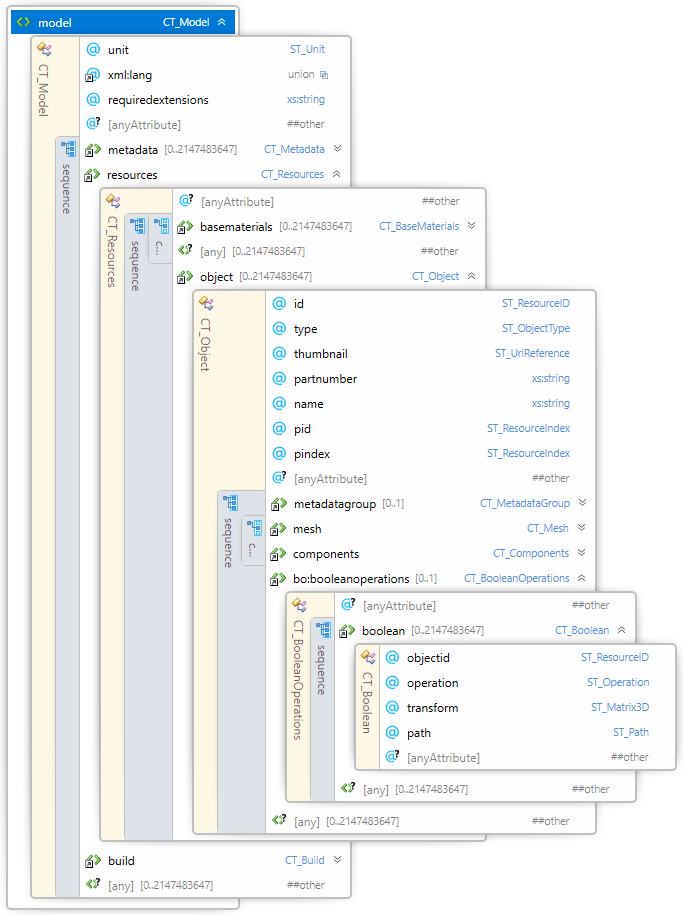
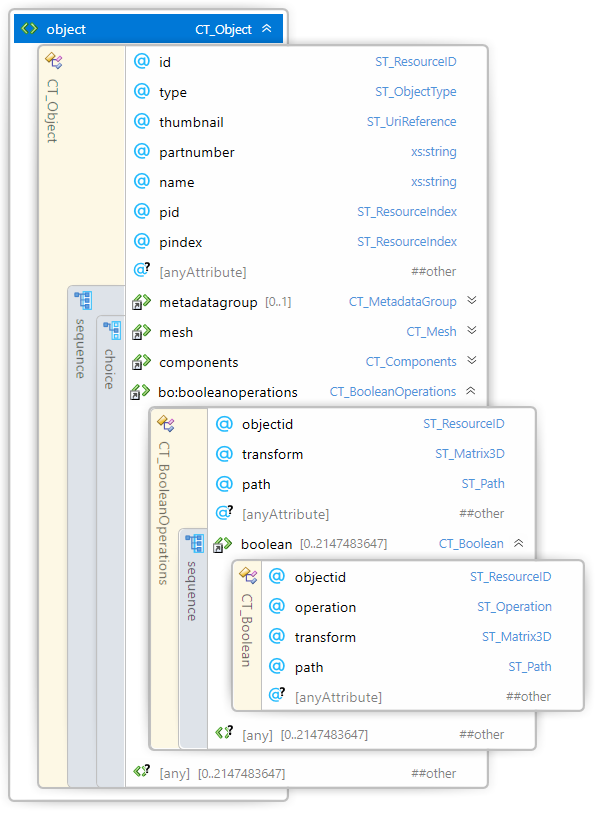
new 0.7.5 draft

diff --git a/3MF Boolean operations.md b/3MF Boolean operations.md
@@ -13,7 +13,7 @@
 
 
 
-| **Version** | 0.7.0 |
+| **Version** | 0.7.5 |
 | --- | --- |
 | **Status** | Draft |
 
@@ -86,7 +86,20 @@ Element \<booleanoperations>
 
 ![Boolean Operations](images/2.booleanoperations.png)
 
+| Name   | Type   | Use   | Default   | Annotation |
+| --- | --- | --- | --- | --- |
+| objectid | **ST\_ResourceID** | required | | It references the object object id to apply the boolean operations |
+| transform | **ST\_Matrix3D** | | | A matrix transform (see [3.3. 3D Matrices](#33-3d-matrices)) applied to the item to be outputted. |
+| path | **ST\_Path** | | | A file path to the object file being referenced. The path is an absolute path from the root of the 3MF container. |
+| @anyAttribute | | | | |
+
 The optional \<booleanoperations> element contains one or more \<boolean> elements to perform subtractive boolean operations to the mesh or components elements in the enclosing object.
+
+**objectid** - Selects the object with the base object to be subtracted.
+
+**transform** - The transform to apply to the selected base object.
+
+**path** - When used in conjunction with [the 3MF Production extension](https://github.com/3MFConsortium/spec_production/blob/master/3MF%20Production%20Extension.md), the "path" attribute references objects in non-root model files. Path is an absolute path to the target model file inside the 3MF container that contains the target object. The use of the path attribute in a \<boolean> element is ONLY valid in the root model file.
 
 The boolean operations are sequentially applied in the order defined by the \<boolean> sequence.
 
@@ -156,8 +169,10 @@ See [the 3MF Core Specification glossary](https://github.com/3MFConsortium/spec_
   <!-- Complex Types -->
   <xs:complexType name="CT_Object">
     <xs:sequence>
-      <xs:element ref="booleanoperations" minOccurs="0" maxOccurs="1"/>
-      <xs:any namespace="##other" processContents="lax" minOccurs="0" maxOccurs="2147483647"/>
+      <xs:choice>
+        <xs:element ref="booleanoperations"/>
+        <xs:any namespace="##other" processContents="lax" minOccurs="0" maxOccurs="2147483647"/>
+      </xs:choice>
     </xs:sequence>
   </xs:complexType>
 
@@ -166,6 +181,9 @@ See [the 3MF Core Specification glossary](https://github.com/3MFConsortium/spec_
       <xs:element ref="boolean" minOccurs="0" maxOccurs="2147483647"/>
       <xs:any namespace="##other" processContents="lax" minOccurs="0" maxOccurs="2147483647"/>
     </xs:sequence>
+    <xs:attribute name="objectid" type="ST_ResourceID" use="required"/>
+    <xs:attribute name="transform" type="ST_Matrix3D"/>
+    <xs:attribute name="path" type="ST_Path"/>
     <xs:anyAttribute namespace="##other" processContents="lax"/>
   </xs:complexType>
 
@@ -231,22 +249,16 @@ See [the 3MF Core Specification glossary](https://github.com/3MFConsortium/spec_
             </mesh>
         </object>
         <object id="6" type="model" name="Intersected">
-            <components>
-                <component objectid="3" transform="0.0741111 0 0 0 0.0741111 0 0 0 0.0741111 2.91124 -0.400453 1.60607" />
-            </components>
-            <booleanoperations>
-                <boolean objectid="4" bo:operation="intersection" transform="0.0741111 0 0 0 0.0741111 0 0 0 0.0741111 2.91124 -0.400453 1.60607"/>
-            </booleanoperations>
+            <bo:booleanoperations objectid="3" transform="0.0741111 0 0 0 0.0741111 0 0 0 0.0741111 2.91124 -0.400453 1.60607">
+                <bo:boolean objectid="4" bo:operation="intersection" transform="0.0741111 0 0 0 0.0741111 0 0 0 0.0741111 2.91124 -0.400453 1.60607"/>
+            </bo:booleanoperations>
         </object>
         <object id="10" type="model" name="Full part">
-            <components>
-                <component objectid="6"/>
-            </components>
-            <booleanoperations>
-                <boolean objectid="5" bo:operation="difference" transform="0.0271726 0 0 0 0 0.0271726 0 -0.0680034 0 4.15442 3.58836 5.23705" />
-                <boolean objectid="5" bo:operation="difference" transform="0.0272014 0 0 0 0.0272012 0 0 0 0.0680035 4.05357 6.33412 3.71548" />
-                <boolean objectid="5" bo:operation="difference" transform="0 0 -0.0272013 0 0.0272013 0 0.0680032 0 0 5.05103 6.32914 3.35287" />
-            </booleanoperations>
+            <bo:booleanoperations objectid="6">
+                <bo:boolean objectid="5" bo:operation="difference" transform="0.0271726 0 0 0 0 0.0271726 0 -0.0680034 0 4.15442 3.58836 5.23705" />
+                <bo:boolean objectid="5" bo:operation="difference" transform="0.0272014 0 0 0 0.0272012 0 0 0 0.0680035 4.05357 6.33412 3.71548" />
+                <bo:boolean objectid="5" bo:operation="difference" transform="0 0 -0.0272013 0 0.0272013 0 0.0680032 0 0 5.05103 6.32914 3.35287" />
+            </bo:booleanoperations>
         </object>
     </resources>
     <build>
